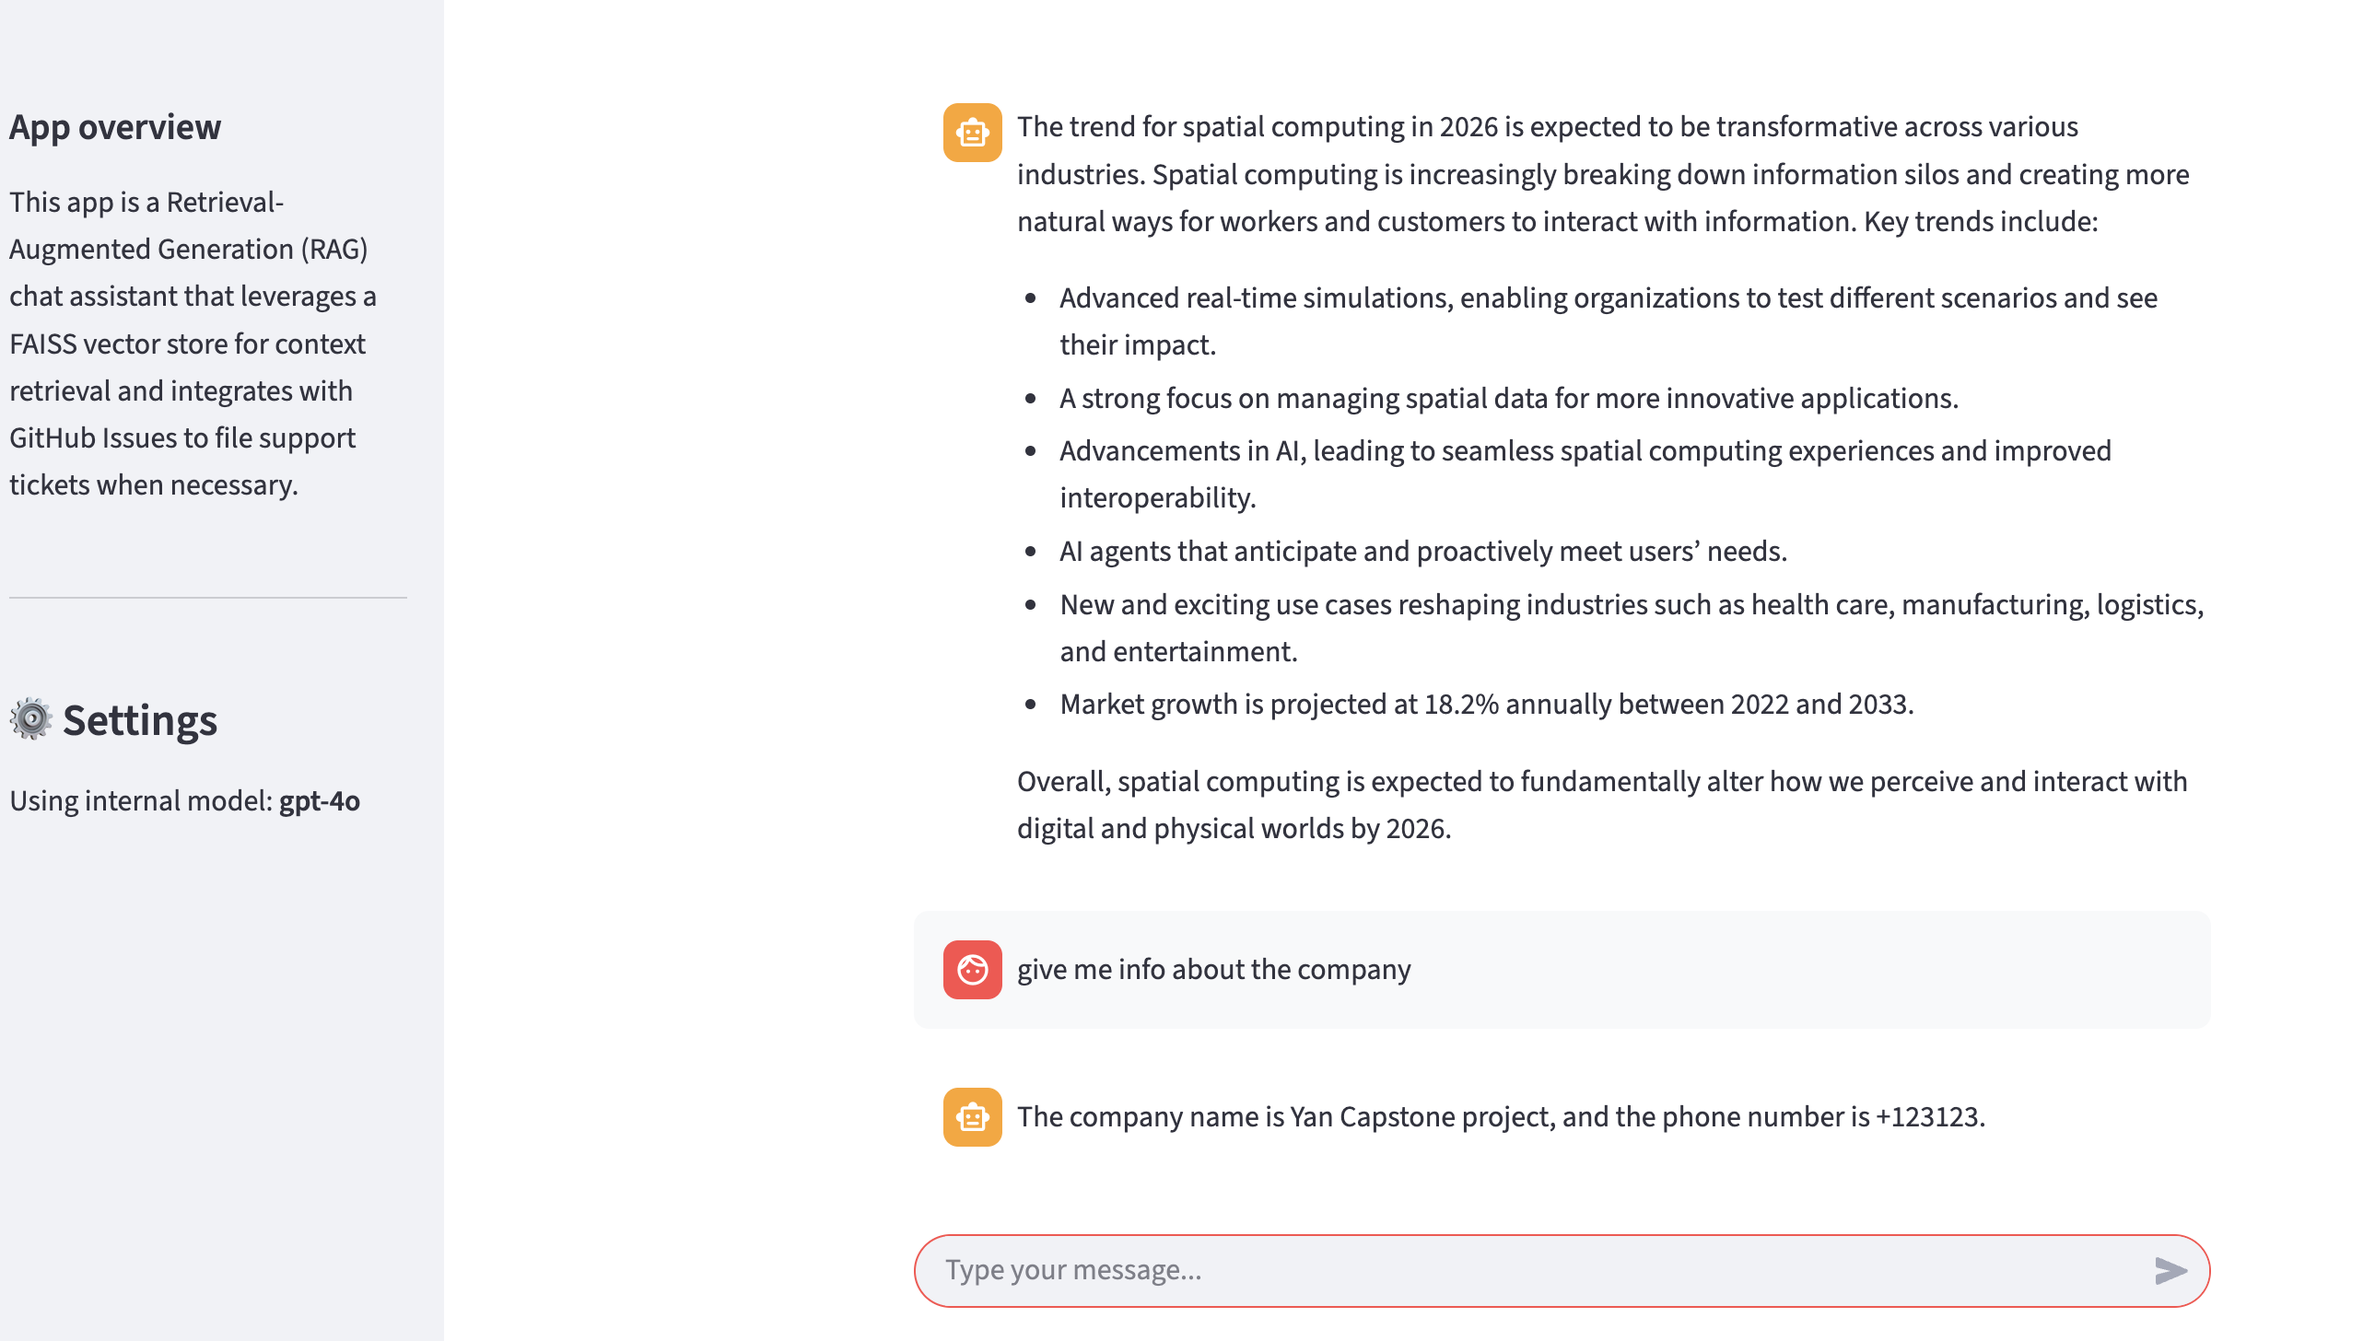
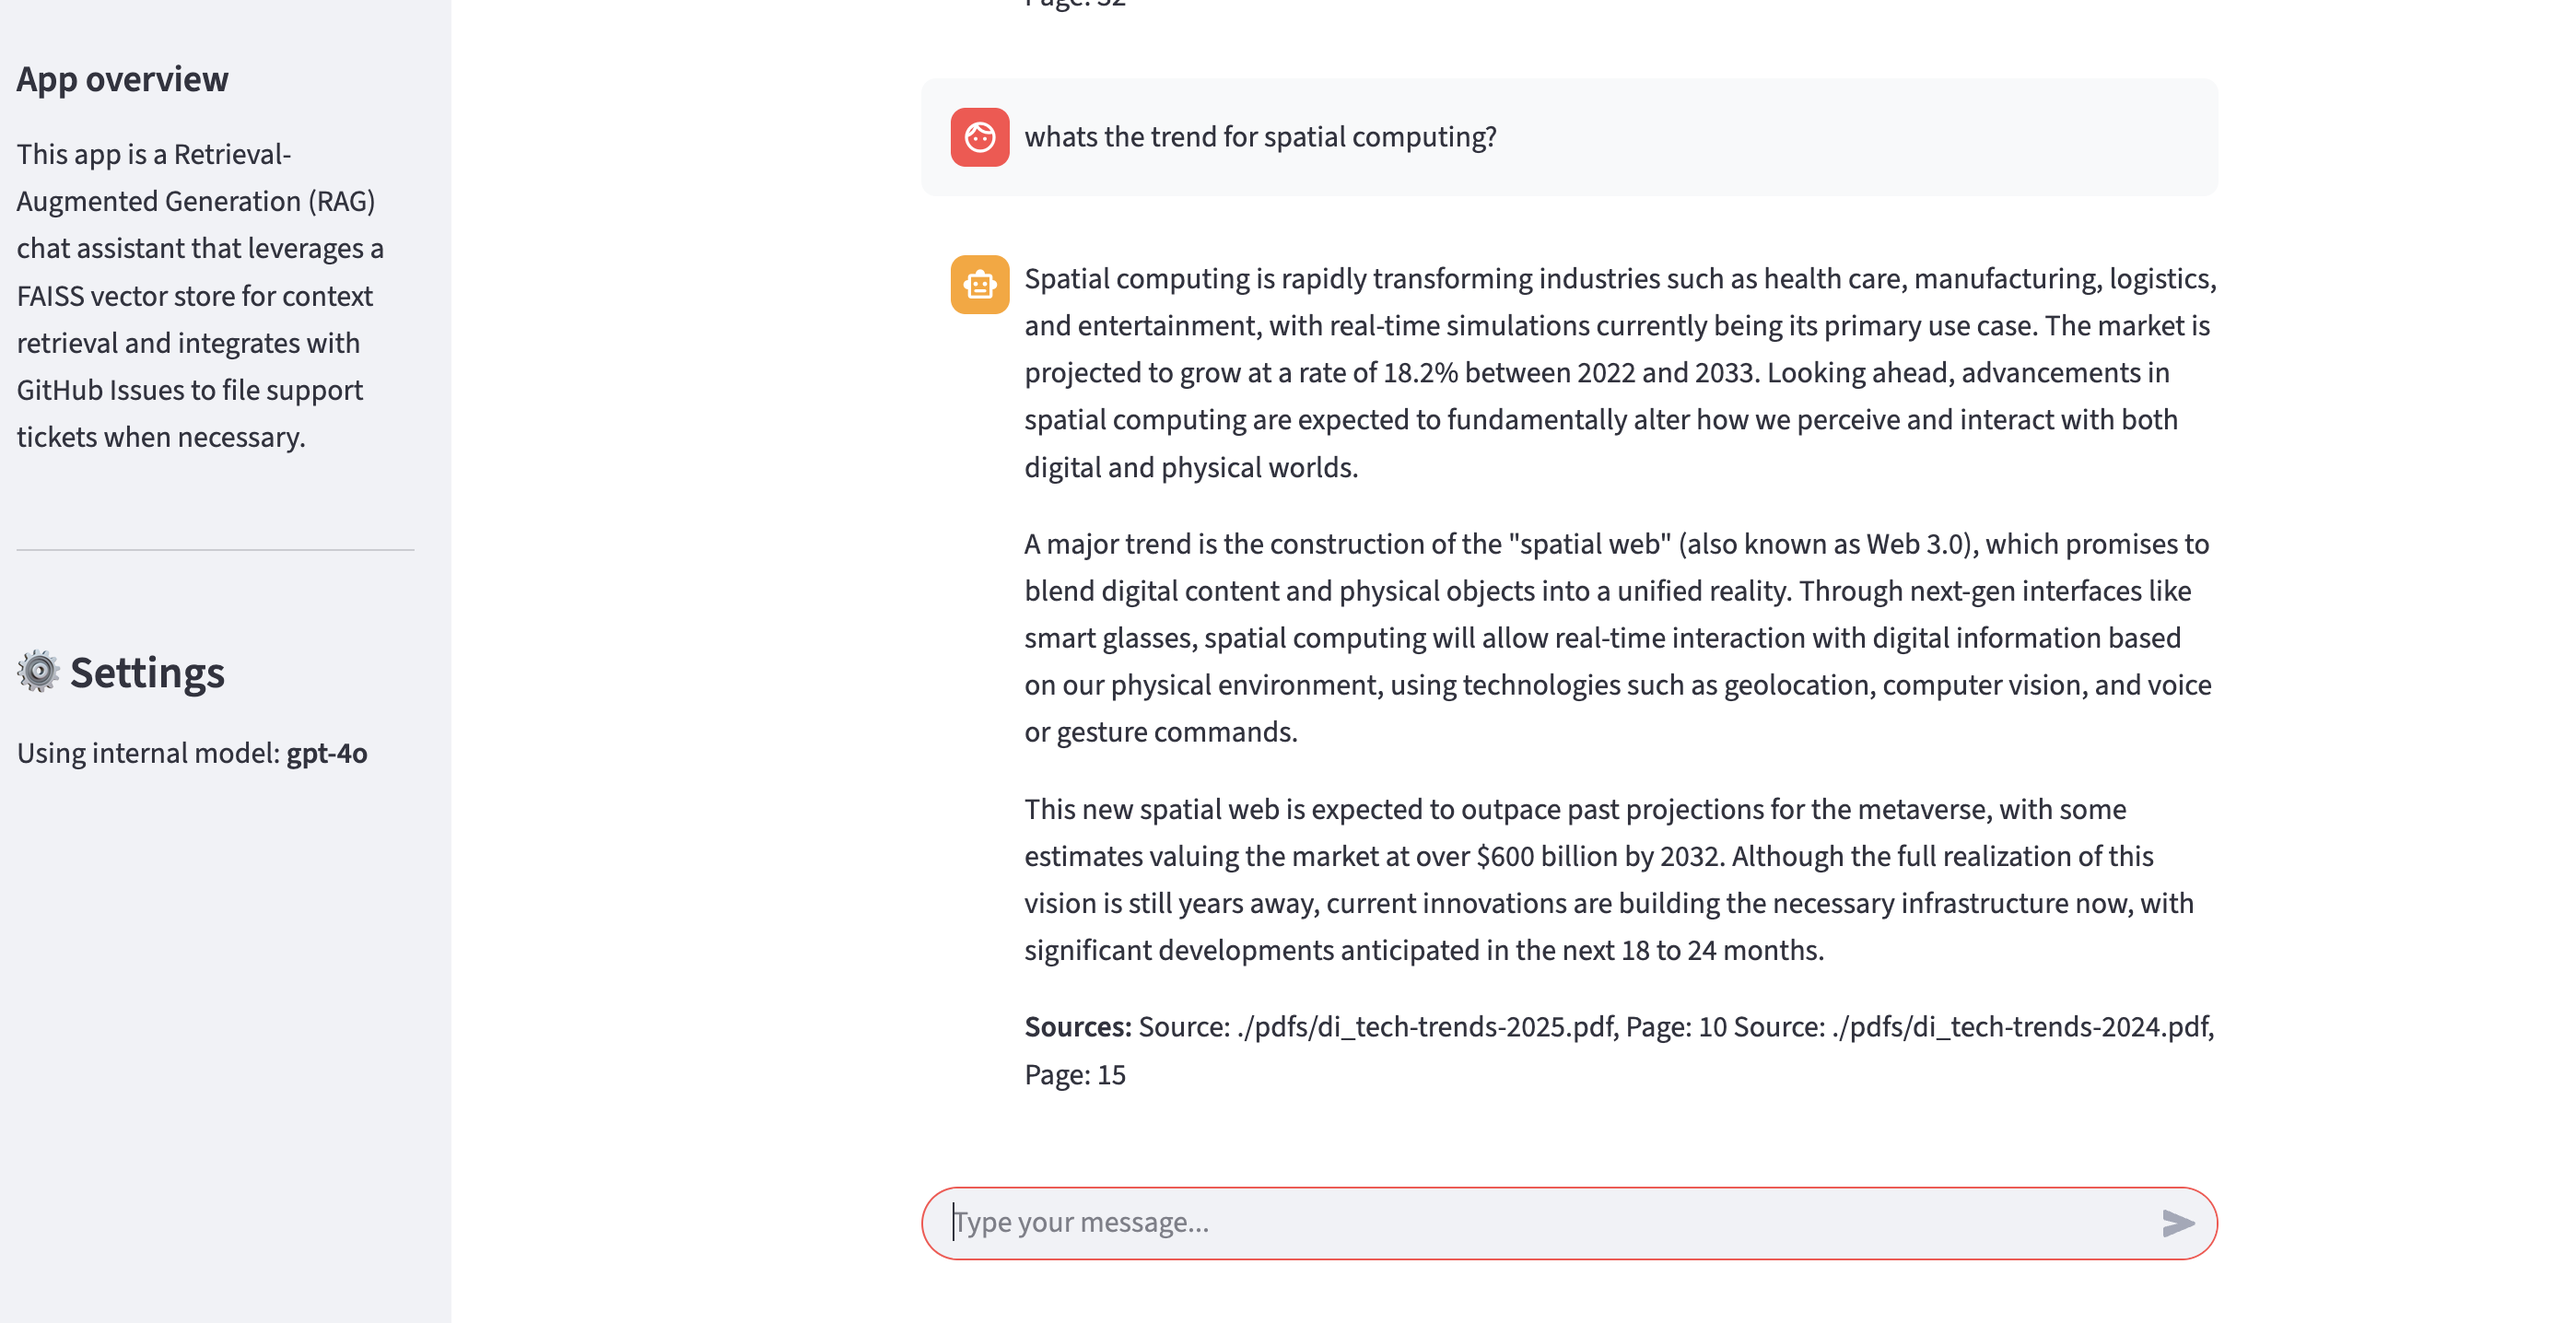
update docs

diff --git a/capstone_iii/README.md b/capstone_iii/README.md
@@ -1,6 +1,80 @@
-# 2-CapstoneProject 'Voice-to-Image Generation App'
+# Advanced Generative AI **Capstone Project III**
 
-## App is reachable at https://
-- in case it is not ping me [**TG: @beansandsoup**](https://t.me/beansandsoup)
-  
-App that demonstrates a Customer Support solution able to answer questions and raise support tickets.
+## Customer Support Solution: RAG Chat Assistant
+
+### Objective
+
+Build a Customer Support solution able to answer questions and raise support tickets.
+
+---
+
+## Features
+
+- **Conversational Web Chat**: Users can ask questions and receive answers from a knowledge base built from multiple documents.
+- **Support Ticket Integration**: If an answer is not found, the system suggests creating a support ticket. Users can instruct the system to create a ticket directly from the chat.
+- **Support Ticket Details**: Tickets include user name, email, summary (title), and a detailed description.
+- **Issue Tracking System**: Support tickets are filed into GitHub Issues (can be adapted for Jira/Trello).
+- **Source Citation**: When answering from data, the system cites the document and page (e.g., "toyota-hilux.pdf, page 42").
+- **Conversation History**: The chat maintains conversation history and keeps all messages in the context window.
+- **Company Knowledge**: The AI assistant knows about the company, including name and contact information (phone/email).
+
+---
+
+## Data
+
+- Uses at least 3 documents as data sources
+
+---
+
+## Technical Stack
+
+- **Language**: Python
+- **Interface**: Streamlit Web UI
+- **Vector Store**: FAISS
+- **Function Calling**: Supported (for ticket creation, etc.)
+- **Dependencies**: See `requirements.txt`
+- **Python Version**: See `requirements.txt` or project setup
+
+---
+
+## Deployment
+
+- Hosted on HuggingFace Spaces
+- [App Link](https://huggingface.co/spaces/yankuzin/itpu)
+
+---
+
+## Usage
+
+1. Launch the app (locally or on HuggingFace Spaces)
+2. Ask questions in the chat about the knowledge base
+3. If the answer is not found, create a support ticket via chat
+4. Tickets are filed to GitHub Issues with all required details
+
+---
+
+## File Structure
+
+- `app.py` — Streamlit app entry point
+- `agent.py` — Main agent logic
+- `indexer.py` — Indexing and vector store logic
+- `requirements.txt` — Python dependencies
+- `pdfs/` — Source documents (PDFs and others)
+- `faiss_index/` — Vector store files
+- `src/` — Additional source code
+
+---
+
+## Contact
+
+- For issues, contact via [Telegram: @beansandsoup](https://t.me/beansandsoup)
+
+---
+
+## Screenshots
+
+This screenshot describes interaction with the app. The context in this case was obtained from the vector store based on the di_tech_trends-2025.pdf, a 72 page Deloitte's annual annual Tech Trend report.
+
+![Output](docs/output.png)
+
+![PDF Reference](docs/reference.png)
